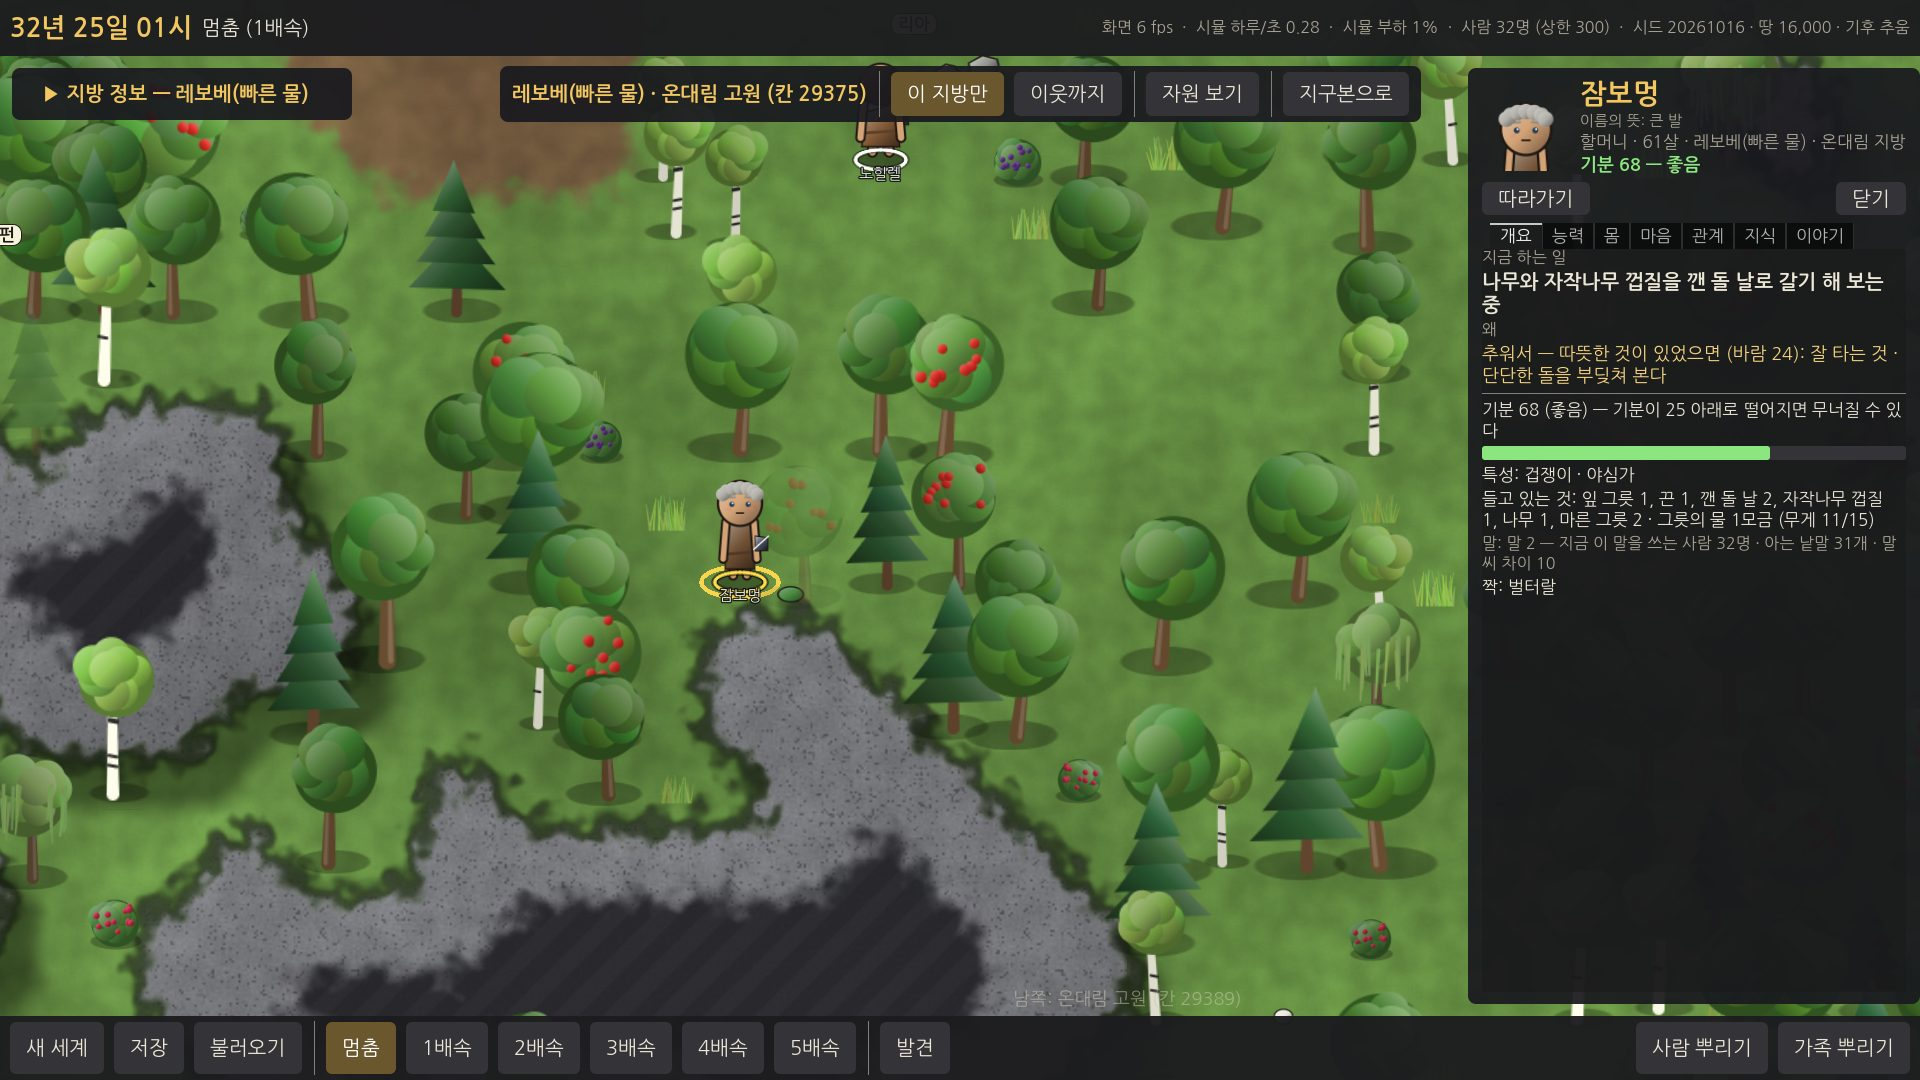
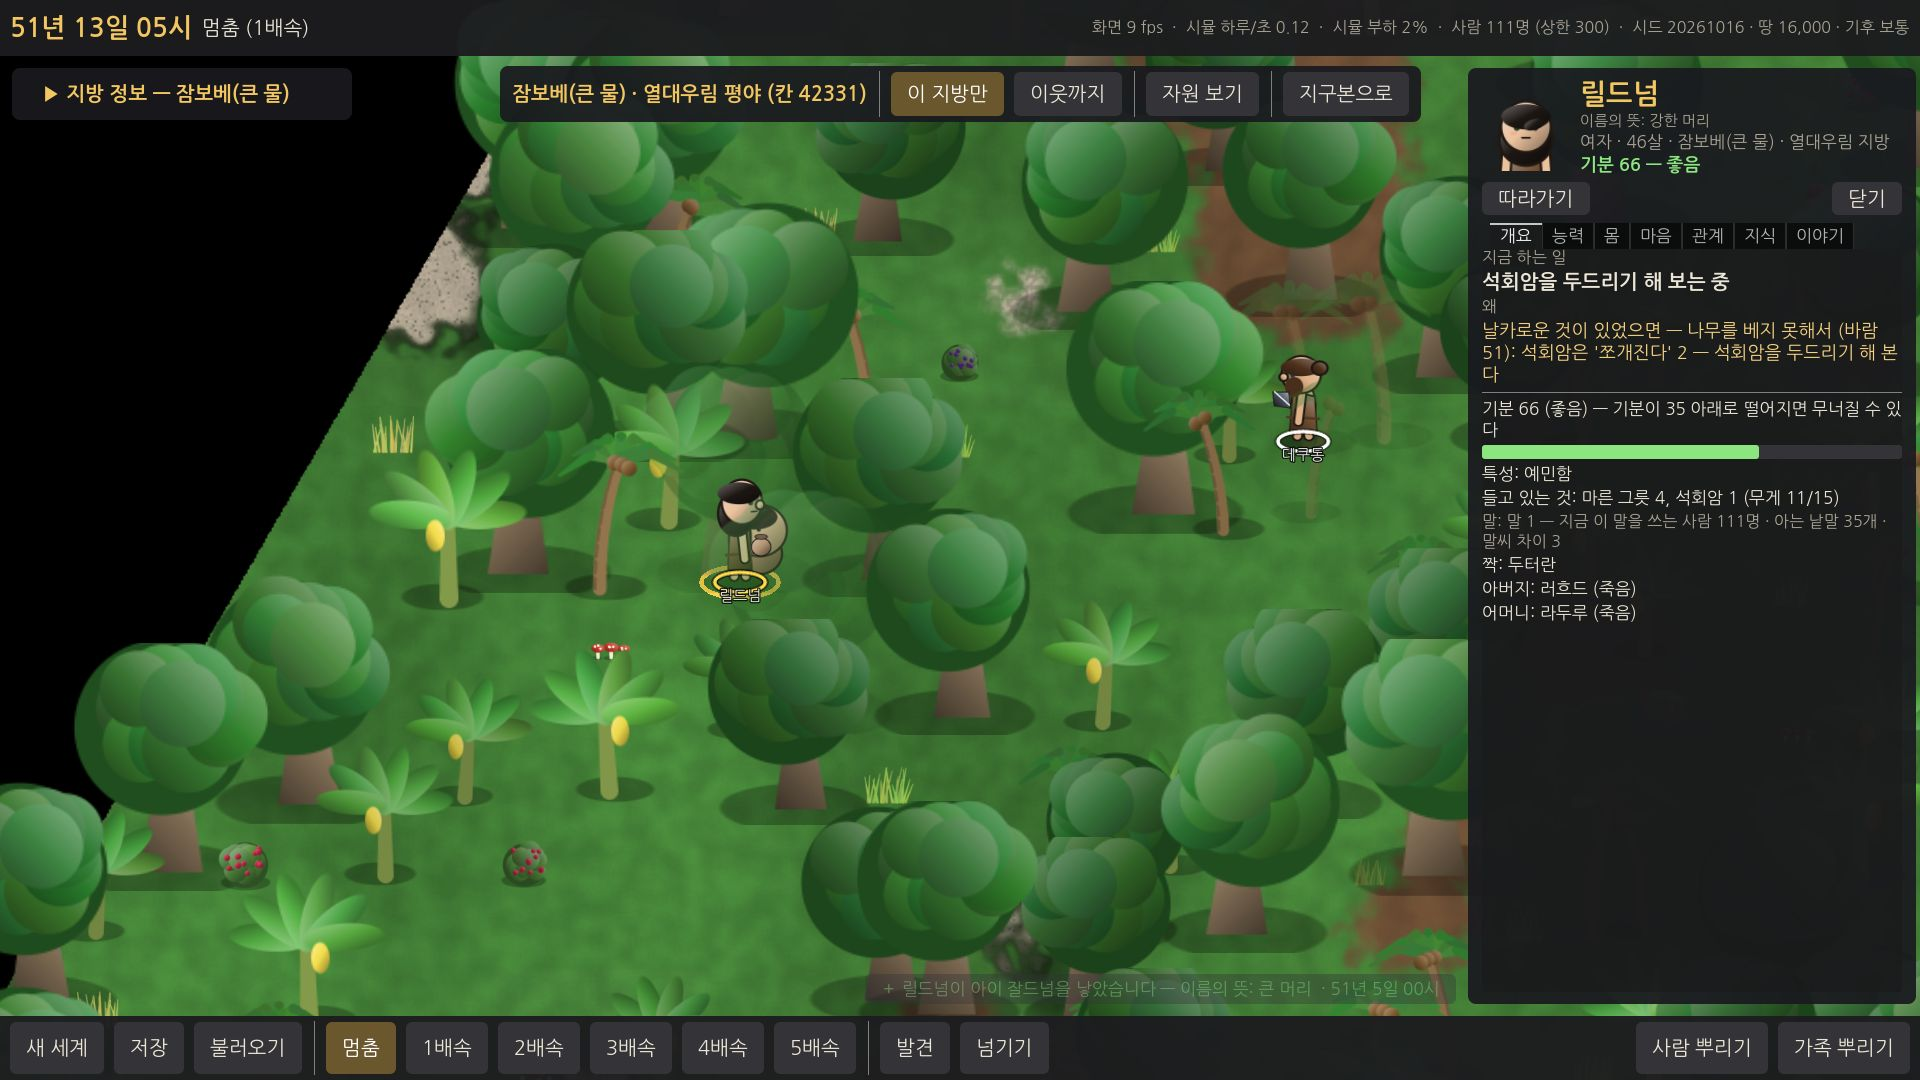
E4 고침: 단서를 따를 때 카드의 "왜"는 그 행동에 맞는 단서 · 새 스크린샷(넘기기 · 팝업 · 불러오기 · 실험 카드)
Claude-Session: https://claude.ai/code/session_01NxBoyA5WZtXgxwyJnFmmAM

diff --git a/sim/People/PeopleText.cs b/sim/People/PeopleText.cs
@@ -125,6 +125,17 @@ public sealed partial class PeopleSim
 
     /// <summary>(E4) 왜 이 재료로 이 일을 하나 — 지금 계획한 행동 그대로: 고른 재료에서 그 바람의 속성이 가장 높은 것을 짚는다.
     /// 재료를 얻으러 가는 중이면 "무엇이 필요해서".</summary>
+    /// <summary>(E4) 따라가는 단서: 지금 하는 행동과 맞는 가장 최근 단서(재료를 얻으러 가는 중이면 그 재료).</summary>
+    private string FollowedClueText(Person p)
+    {
+        Clue? c = null;
+        for (int i = p.Clues.Count - 1; i >= 0; i--)
+            if (p.PlanAction < 0 || Craft.Rules[p.Clues[i].Rule].Action == p.PlanAction) { c = p.Clues[i]; break; }
+        string clue = c is { } cc ? ClueText(cc) : "";
+        if (p.Act == Act.Material) return $"전에 거의 될 듯했던 단서를 따라서 — {(p.PlanItem >= 0 ? Hangul.Eul(ItemName(p.PlanItem)) + " 얻어 와서" : "재료부터")}: {clue}";
+        return $"전에 거의 될 듯했던 단서를 따라서 — {clue}";
+    }
+
     private string TryReason(Person p, string wishId)
     {
         var wd = Craft.Wishes.FirstOrDefault(w => w.Id == wishId);
@@ -210,7 +221,7 @@ public sealed partial class PeopleSim
             Why.WantCarry => $"더 많이 나를 수 있었으면 (바람 {WishStrength(p, "carry")}): {TryReason(p, "carry")}",
             Why.WantShiny => $"반짝이는 돌이 궁금해서 (바람 {WishStrength(p, "shiny")}): {TryReason(p, "shiny")}",
             Why.KnowHow => $"{Hangul.I(WishName(arg))} 아쉬운데 만드는 법을 알아서",
-            Why.Clue => "전에 거의 될 듯했던 단서를 따라서 — " + (p.Clues.Count > 0 ? ClueText(p.Clues[^1]) : ""),
+            Why.Clue => FollowedClueText(p),
             Why.Fuel => "불이 꺼져 가서 — 땔감을 넣어 지킨다",
             Why.TakeFire => "불이 보여서 — 불씨를 얻어 오면 추위를 피할 수 있다",
             Why.FireNear => p.Act == Act.Sleep ? "불가에서 자려고 — 밤에 덜 춥고 어둠이 덜 무섭다" : "불씨를 들고 있어서 — 자는 곳 가까이에 피운다",

diff --git a/docs/reports/E4/measure-cap.md b/docs/reports/E4/measure-cap.md
@@ -1,13 +1,3 @@
 ## 속도: 사람 300명(지방 20곳에 15명씩, 상한 300) × 100년, 시드 1
 
 ```
-사람 300명(지방마다 15명) × 100년, 시드 1, 상한 300
-  걸린 시간 477.3초 · 사람 하루 1,051,151개(평균 263명이 살아 있음) · 사람 하루당 454.1µs
-  300명이 100년 내내 살아 있다면(같은 비용으로 셈): 545초
-  인구(10년마다): 300 · 299 · 296 · 272 · 189 · 171 · 227 · 286 · 299 · 296 · 끝 296 · 가장 많을 때 300 · 태어남 381
-  죽음: 굶주림 4 · 목마름 10 · 추위 0 · 더위 0 · 늙음 368 · 병 3
-  메모리(관리 힙): 처음 0 MB → 가장 클 때 262 MB · 프로세스 456 MB
-  예약 30,394,620 · 판단 18,568,748 · 길 찾기 7,729,414 (실패 233)
-  (E3b) 지방 넘기: 경계를 넘은 사람 113,500번(하루 28.4번) · 넘겨주기가 일어난 시각 88,344번(하루 22.09번) · 잠든 지방이 깨어남 4,083번
-  (E3b) 끝에 깨어 있는 지방 67곳 · 잠든 지방 244곳 · 사람 사는 지방 56곳 · 지도 기억 64장 · 말 25개 · 이름 붙은 땅 285곳
-```

diff --git a/docs/reports/E4/measure-breaks.md b/docs/reports/E4/measure-breaks.md
@@ -1,0 +1,15 @@
+## 정신 붕괴: 시드 20 × 따뜻한 땅 가족 10명 × 60년 (걸린 시간 349초)
+
+| | 사람·년 | 무너짐 | 한 사람당 1년에 |
+|---|---|---|---|
+| 아이 | 17879 | 66 | 0.00번 |
+| 어른 | 28861 | 846 | 0.03번 |
+| 노인 | 931 | 108 | 0.12번 |
+| 모두 | 47671 | 1020 | 0.02번 |
+
+무너질 때 기분을 끌어내린 생각(기분 합 · 비율) 상위 다섯:
+- 가족의 죽음: 6180 (27%)
+- 혼자 너무 오래: 4610 (20%)
+- 말다툼: 4571 (20%)
+- 노숙: 2241 (10%)
+- 짝을 잃음: 1925 (8%)
